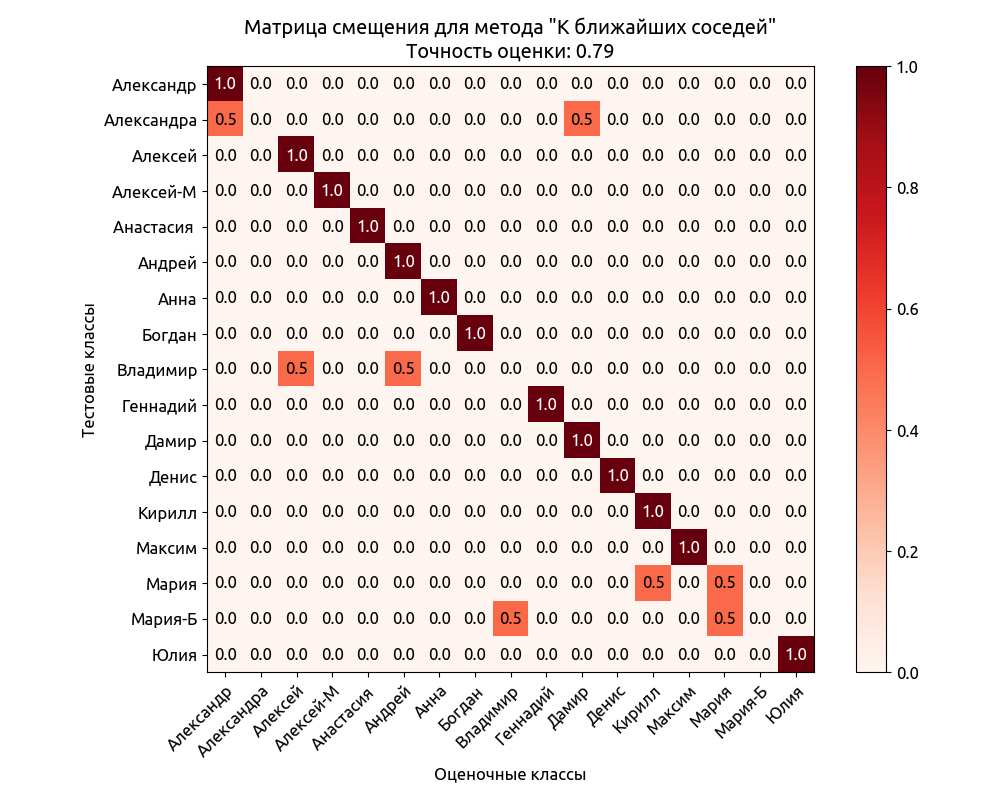
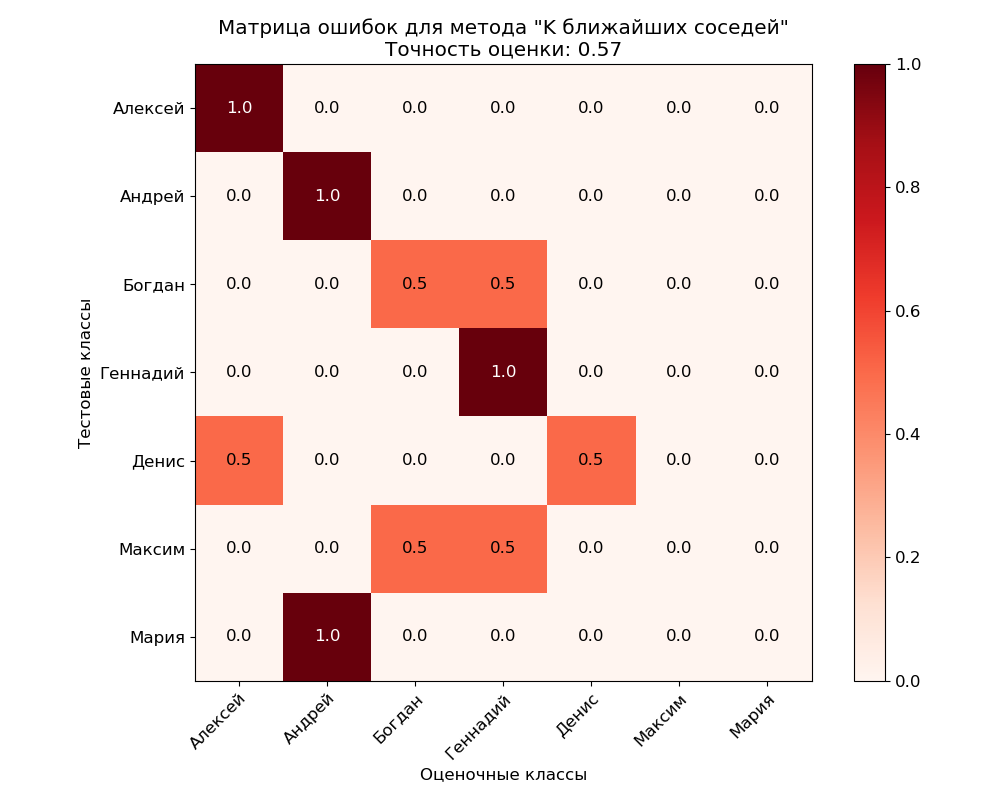
remove unnecessary methods, add plot for first experiment

diff --git a/src/main.py b/src/main.py
@@ -1,7 +1,6 @@
 import warnings
 
 from classifiers.draw import draw_heatmap
-from learn.decision_tree import DecisionTree
 
 warnings.filterwarnings("ignore", category=FutureWarning)
 
@@ -21,7 +20,6 @@ from classifiers.utils import time_to_numpy_array
 from json_parser.mapper import GazeData
 from learn.bayes import Bayes
 from learn.features import get_features_vector
-from learn.gaussian import Gaussian
 from learn.knn import KNN
 from learn.random_forest import RandomForest
 from learn.svcmethod import SVCMethod
@@ -39,6 +37,7 @@ def main():
     print("Process started")
     data = parser.parse_all()
     print("Reading and parsing completed")
+    data = {i: data[i] for i in list(data.keys())[3::2]}
     vectors = get_vectors_for_data(data)
     print("Vectors created")
     LearnUtils.set_up(vectors, test_indexes=[1, 4])
@@ -48,8 +47,6 @@ def main():
     knn = KNN()
     svc = SVCMethod()
     random_forest = RandomForest()
-    gaussian = Gaussian()
-    decision_tree = DecisionTree()
     bayes = Bayes()
     voting = Voting()
     # ----------------------VOTING LEARN----------------------#
@@ -75,7 +72,6 @@ def main():
     # svc_grid_result = svc.grid()
     # random_forest_grid_result = random_forest.grid()
     # gaussian_grid_result = gaussian.grid()
-    # decision_tree_grid_result = decision_tree.grid()
     # a = 1
 
     # ----------------------CLASSIFICATION--------------------#
@@ -84,13 +80,11 @@ def main():
 
     svc_pred = svc.learn()
     svc_acc_score = accuracy_score(y_test, svc_pred)
+    print_classification_report(y_test, svc_pred, LearnUtils.get_labels())
     a = 1
 
     random_forest_result = random_forest.learn()
     random_forest_score = accuracy_score(y_test, random_forest_result)
-
-    gaussian_result = gaussian.learn()
-    gaussian_score = accuracy_score(y_test, gaussian_result)
 
     bayes_result = bayes.learn()
     bayes_score = accuracy_score(y_test, bayes_result)
@@ -101,25 +95,21 @@ def main():
     # svc_score = run_multiple_times(svc, y_test, times)
     # random_forest_score = run_multiple_times(random_forest, y_test, times)
     # gaussian_score = run_multiple_times(gaussian, y_test, times)
-    # decision_tree_score = run_multiple_times(decision_tree, y_test, times)
     # bayes_score = run_multiple_times(bayes, y_test, times)
     a = 1
 
     #
     # # ----------------------CONFUSION MATRIX----------------------#
     fig = plot_confusion_matrix(y_test, voting_result, normalize=True,
-                                title=f'Матрица смещения для обобщенных методов\nТочность оценки: {voting_score:.2f}')
-    # fig.show()
+                                title=f'Матрица ошибок для обобщенных методов\nТочность оценки: {voting_score:.2f}')
     fig1 = plot_confusion_matrix(y_test, knn_result, normalize=True,
-                                 title=f'Матрица смещения для метода "K ближайших соседей"\nТочность оценки: {knn_score:.2f}')
+                                 title=f'Матрица ошибок для метода "K ближайших соседей"\nТочность оценки: {knn_score:.2f}')
     fig2 = plot_confusion_matrix(y_test, svc_pred, normalize=True,
-                                 title=f'Матрица смещения для метода опорных векторов\nТочность оценки: {svc_acc_score:.2f}')
+                                 title=f'Матрица ошибок для метода опорных векторов\nТочность оценки: {svc_acc_score:.2f}')
     fig3 = plot_confusion_matrix(y_test, random_forest_result, normalize=True,
-                                 title=f'Матрица смещения для метода случайного леса\nТочность оценки: {random_forest_score:.2f}')
-    fig4 = plot_confusion_matrix(y_test, gaussian_result, normalize=True,
-                                 title=f'Матрица смещения для метода преобразования Гаусса\nТочность оценки: {gaussian_score:.2f}')
+                                 title=f'Матрица ошибок для метода случайного леса\nТочность оценки: {random_forest_score:.2f}')
     fig5 = plot_confusion_matrix(y_test, bayes_result, normalize=True,
-                                 title=f'Матрица смещения для метода найвного Байеса\nТочность оценки: {bayes_score:.2f}')
+                                 title=f'Матрица ошибок для метода найвного Байеса\nТочность оценки: {bayes_score:.2f}')
     # fig1.show()
     # fig2.show()
     # fig3.show()
@@ -129,7 +119,6 @@ def main():
     fig1.savefig("../output/clear/knn.png")
     fig2.savefig("../output/clear/svc.png")
     fig3.savefig("../output/clear/random_forest.png")
-    fig4.savefig("../output/clear/gaussian.png")
     fig5.savefig("../output/clear/bayes.png")
 
     a = 1

diff --git a/src/learn/vector.py b/src/learn/vector.py
@@ -10,18 +10,18 @@ class Vector:
     fixations_average_duration: float
     saccades_average_horizontal_amplitude: float
     saccades_average_velocity: float
-    average_user_position_x: float
-    average_user_position_y: float
-    average_user_position_z: float
-    average_user_velocity: float
+    # average_user_position_x: float
+    # average_user_position_y: float
+    # average_user_position_z: float
+    # average_user_velocity: float
 
     def to_array(self) -> ndarray:
         return array([self.fixations_count,
                       self.fixations_average_duration,
                       self.saccades_average_horizontal_amplitude,
                       self.saccades_average_velocity,
-                      self.average_user_position_x,
-                      self.average_user_position_y,
-                      self.average_user_position_z,
-                      self.average_user_velocity
+                      # self.average_user_position_x,
+                      # self.average_user_position_y,
+                      # self.average_user_position_z,
+                      # self.average_user_velocity
                       ])

diff --git a/src/learn/voting.py b/src/learn/voting.py
@@ -5,8 +5,6 @@ from sklearn.feature_selection import SelectKBest, chi2, f_classif, mutual_info_
 from sklearn.model_selection import cross_val_score
 
 from learn.bayes import Bayes
-from learn.decision_tree import DecisionTree
-from learn.gaussian import Gaussian
 from learn.knn import KNN
 from learn.random_forest import RandomForest
 from learn.svcmethod import SVCMethod
@@ -68,8 +66,6 @@ class Voting:
         knn = KNN().get_classifier()
         svc = SVCMethod().get_classifier()
         random_forest = RandomForest().get_classifier()
-        gaussian = Gaussian().get_classifier()
-        decision_tree = DecisionTree().get_classifier()
         bayes = Bayes().get_classifier()
 
         return VotingClassifier(
@@ -77,8 +73,6 @@ class Voting:
                 ("knn", knn),
                 ("svc", svc),
                 ("rf", random_forest),
-                ("gaus", gaussian),
-                ("dt", decision_tree),
                 ("bayes", bayes)
             ],
             voting="soft")

diff --git a/src/learn/features.py b/src/learn/features.py
@@ -16,10 +16,10 @@ def get_features_vector(fixations: FixationsGroup, saccades: SaccadesGroup,
                   get_average_duration_of_fixations(fixations),
                   get_average_horizontal_amplitude_of_saccades(saccades),
                   get_average_velocity_of_saccades(saccades),
-                  np.abs(user_x),
-                  np.abs(user_y),
-                  np.abs(user_z),
-                  get_average_user_velocity(user_positions)
+                  # np.abs(user_x),
+                  # np.abs(user_y),
+                  # np.abs(user_z),
+                  # get_average_user_velocity(user_positions)
                   )
 
 

diff --git a/src/learn/random_forest.py b/src/learn/random_forest.py
@@ -34,5 +34,5 @@ class RandomForest:
         return grid
 
     def get_classifier(self):
-        # return RandomForestClassifier()
-        return RandomForestClassifier(criterion="entropy", max_depth=4, max_features="sqrt", n_estimators=200)
+        return RandomForestClassifier()
+        # return RandomForestClassifier(criterion="entropy", max_depth=4, max_features="sqrt", n_estimators=200)

diff --git a/src/learn/svcmethod.py b/src/learn/svcmethod.py
@@ -32,5 +32,5 @@ class SVCMethod:
         return grid
 
     def get_classifier(self):
-        return SVC(kernel="rbf", C=10, gamma=1, probability=True)
-        # return SVC(probability=True)
+        # return SVC(kernel="rbf", C=10, gamma=1, probability=True)
+        return SVC(probability=True)

diff --git a/src/learn/knn.py b/src/learn/knn.py
@@ -8,7 +8,7 @@ from learn.utils import LearnUtils
 
 
 class KNN:
-    n_neighbors = 5
+    n_neighbors = 7
 
     def learn(self) -> List[int]:
         labels, train_array, test_array = LearnUtils.get_learn_data()
